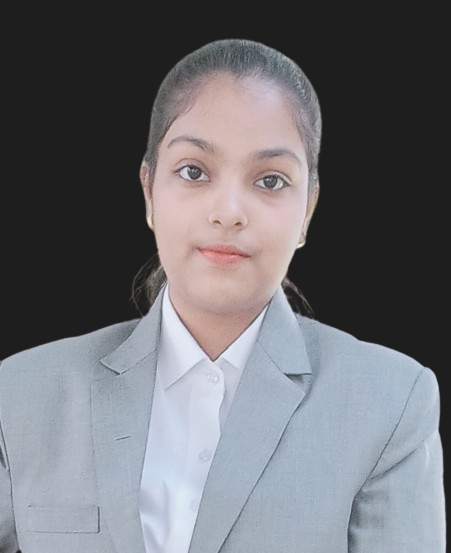
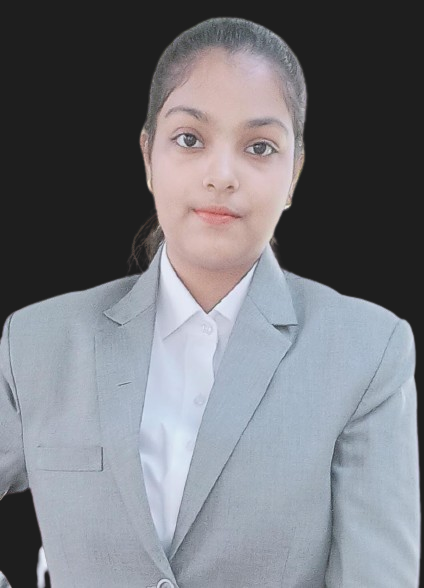
Intro component created

diff --git a/src/components/Intro/Intro.js b/src/components/Intro/Intro.js
@@ -1,12 +1,50 @@
 import React from "react";
 import "./Intro.css";
-import img from "../../assets/naina.png";
+import bg from "../../assets/NainaImg.png";
+import linkedInImg from "../../assets/linkedin-icon-png-16.jpg";
+import GithubImg from "../../assets/github-icon.jpg";
+import { FaLinkedin } from "react-icons/fa";
+import { FaGithub } from "react-icons/fa6";
 
 const Intro = () => {
+  const openLinkedInProfile = () => {
+    window.open("https://www.linkedin.com/in/naina-johri/", "_blank");
+  };
+  const openGitHubProfile = () => {
+    window.open("https://github.com/nainajohri95", "_blank");
+  };
   return (
     <section id="intro">
-      <div className="introContent"></div>
-      <img src={img} alt="" className="img" />
+      <div className="introContent">
+        <span className="hello">Hello,</span>
+        <span className="introText">
+          I'm <span className="introName">Naina Johri</span> <br /> Front End
+          Developer
+        </span>
+        <p className="introPara">
+          I'm on a mission to craft exceptional web experiences that captivate
+          and connect. With expertise as a Front-End Developer, I breathe life
+          into digital landscapes, blending creativity and interactivity.
+        </p>
+
+        <div className="logo-container">
+          <a
+            href="https://www.linkedin.com/in/naina-johri/"
+            target="_blank"
+            className="logo-link"
+          >
+            <img src={linkedInImg} alt="LinkedIn" className="logo" />
+          </a>
+          <a
+            href="https://github.com/nainajohri95"
+            target="_blank"
+            className="logo-link"
+          >
+            <img src={GithubImg} alt="GitHub" className="logo" />
+          </a>
+        </div>
+      </div>
+      <img src={bg} alt="" className="img" />
     </section>
   );
 };

diff --git a/src/components/Intro/Intro.css b/src/components/Intro/Intro.css
@@ -1,0 +1,98 @@
+#intro {
+  height: calc(100vh - 4rem);
+  width: 100vw;
+  max-width: 75rem;
+  margin: 0 auto;
+  overflow: hidden;
+  display: flex;
+  align-items: center;
+  position: relative;
+}
+
+.introContent {
+  height: 100vh;
+  width: 10vw;
+  padding: 2rem;
+  padding-right: 20px;
+  font-size: 3rem;
+  font-weight: 700;
+  display: flex;
+  flex-direction: column;
+  justify-content: center;
+  flex: 1;
+}
+
+.img {
+  max-width: 100%;
+}
+
+.introParaContainer {
+  max-width: 400px;
+  max-width: 400px;
+  letter-spacing: 2rem;
+}
+
+.Linkeidn-btn,
+.Github-btn {
+  margin-top: 10px;
+}
+
+.hello {
+  font-size: 1.98rem;
+  font-weight: 200;
+}
+
+.introName {
+  color: yellow;
+  font-weight: bold;
+}
+
+.introPara {
+  font-size: medium;
+  font-weight: 100;
+}
+
+.frontEndDeveloper {
+  color: white;
+  font-weight: bold;
+}
+
+.bg {
+  position: absolute;
+  z-index: -1;
+  right: 0;
+  object-fit: cover;
+  top: -4rem;
+}
+
+.logo-container {
+  display: flex;
+  margin-top: -2rem;
+}
+
+.logo-link {
+  margin-right: 10px;
+}
+
+.logo {
+  width: 20px;
+  border-radius: 5px;
+}
+
+.logo-link img {
+  width: 100%;
+}
+
+.logo-container .logo {
+  width: 3rem;
+  height: 3rem;
+}
+
+@media screen and (max-width: 840px) {
+  .bg {
+    right: -10vw;
+  }
+  .introContent {
+    font-size: 10vw;
+  }
+}

diff --git a/public/index.html b/public/index.html
@@ -6,6 +6,12 @@
     <meta name="viewport" content="width=device-width, initial-scale=1" />
     <meta name="description" content="Naina Johri Portfolio" />
     <link rel="stylesheet" href="style.css" />
+    <link rel="preconnect" href="https://fonts.googleapis.com" />
+    <link rel="preconnect" href="https://fonts.gstatic.com" crossorigin />
+    <link
+      href="https://fonts.googleapis.com/css2?family=Poppins:wght@200;300;500;600&display=swap"
+      rel="stylesheet"
+    />
     <title>Naina Johri Portfolio</title>
   </head>
   <body>

diff --git a/public/style.css b/public/style.css
@@ -3,7 +3,8 @@
   padding: 0;
   box-sizing: border-box;
   text-decoration: none;
-  background: none;
+  background: transparent;
+  font-family: "Poppins", sans-serif;
 }
 
 body {

diff --git a/src/App.css b/src/App.css
@@ -1,4 +1,4 @@
-.App {
+/* .App {
   text-align: center;
 }
 
@@ -35,4 +35,4 @@
   to {
     transform: rotate(360deg);
   }
-}
+} */
